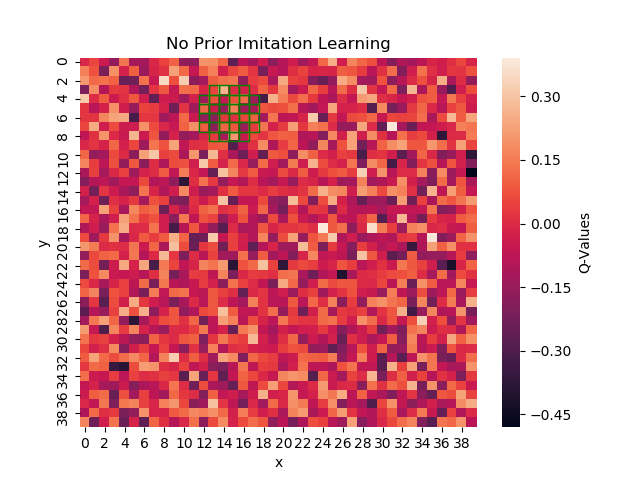
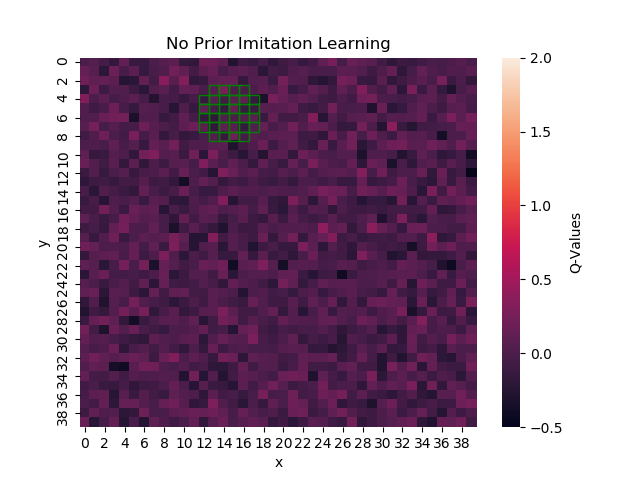
Work

diff --git a/misc/plot_mtb_q_matrix.py b/misc/plot_mtb_q_matrix.py
@@ -80,7 +80,7 @@ def plot_q_matrix(dir):
         q_df, _ = parse_data(dir, files[Q])
         state_df, state_matrix = parse_data(dir, files[state])
 
-        ax = sns.heatmap(q_df, xticklabels=2, yticklabels=2, cbar_kws={'label': 'Q-Values'})
+        ax = sns.heatmap(q_df, xticklabels=2, yticklabels=2, cbar_kws={'label': 'Q-Values'}, vmax=2, vmin=-0.5)
         beacon_cords = get_xy_coordinates(state_matrix)
 
         print(id)
